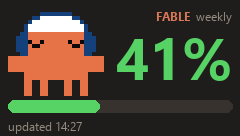
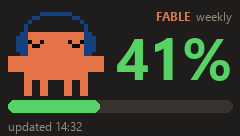
Leave the headband interior transparent
The reference GIF has nothing between the headphone arc and the head; it
only looked white against a white page. Drop the fill so the panel's dark
background shows through, as the user asked.

Changed region(s): [[0.1167, 0.1176, 0.35, 0.2353], [0.2917, 0.8824, 0.35, 0.9706]]

diff --git a/mascot.py b/mascot.py
@@ -28,10 +28,10 @@ PALETTE = {
 # fmt: off
 BASE = [
     "........bbbbbbbb........",
-    "......bbwwwwwwwwbb......",
-    ".....bwwwwwwwwwwwwb.....",
-    "....bwwwwwwwwwwwwwwb....",
-    "....bwwwwwwwwwwwwwwb....",
+    "......bb........bb......",
+    ".....b............b.....",
+    "....b..............b....",
+    "....b..............b....",
     "...bboooooooooooooobb...",
     "..bbboooooooooooooobbb..",
     "..bbboooooooooooooobbb..",
